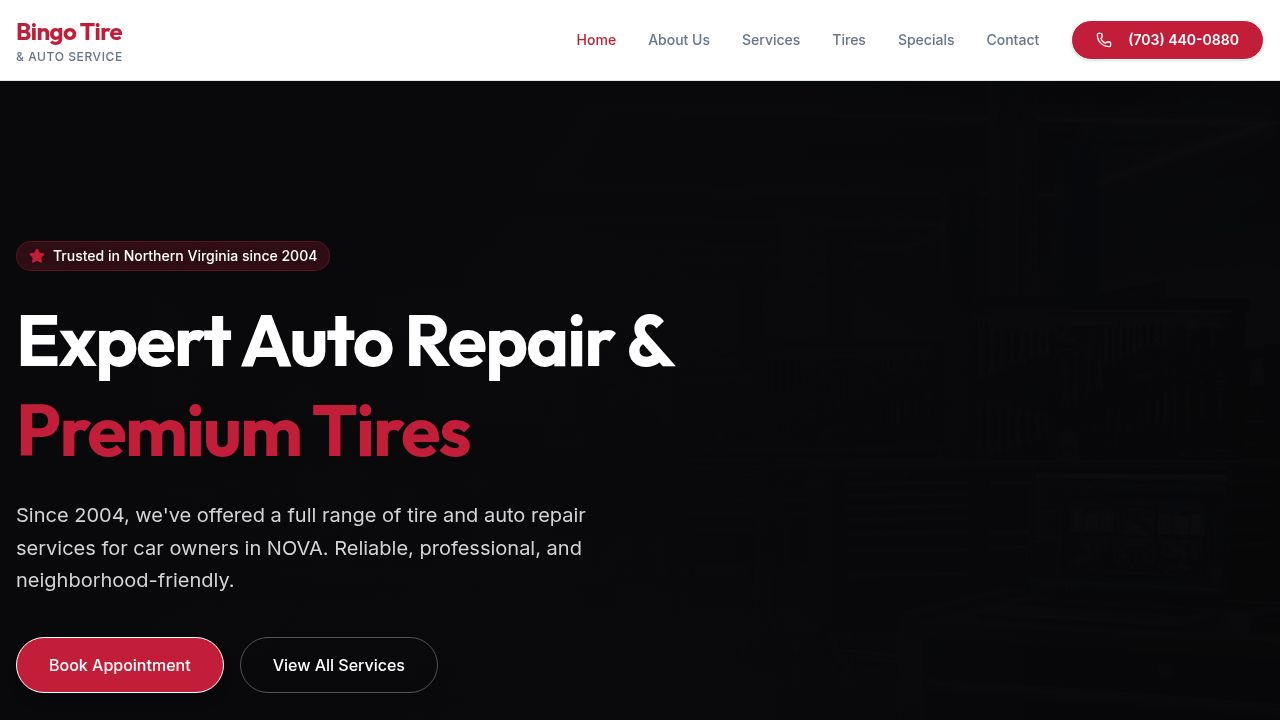
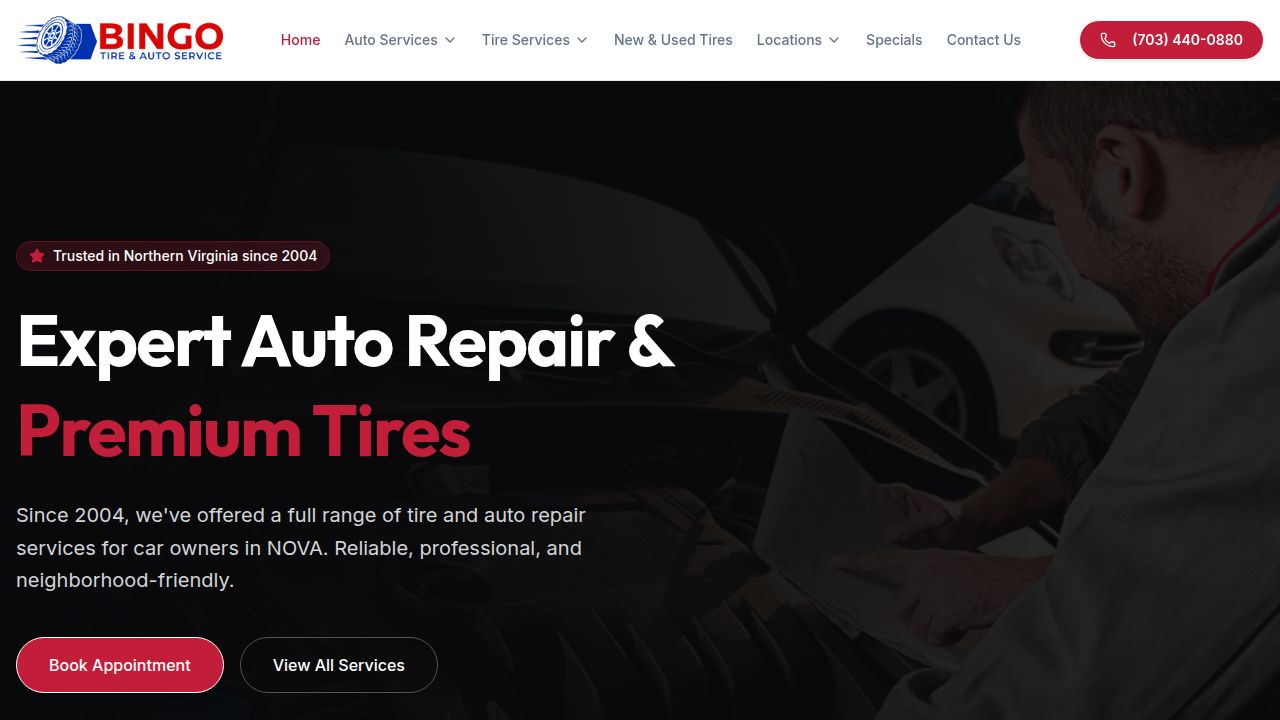
Specify locations where Virginia State Inspection service is available
Add availability logic to services data and conditionally render location information on the Auto Services and Service Detail pages.

Replit-Commit-Author: Agent
Replit-Commit-Session-Id: 10fc0e76-895e-47c9-9f9a-aaf9d7b1b61f
Replit-Commit-Checkpoint-Type: full_checkpoint
Replit-Commit-Event-Id: 206e4e79-4d3b-45c5-a0a7-cb11337b54ee
Replit-Commit-Screenshot-Url: https://storage.googleapis.com/screenshot-production-us-central1/bf9fb77d-d219-4c9f-bdcb-c0dff5242f1b/10fc0e76-895e-47c9-9f9a-aaf9d7b1b61f/UhK0GwO
Replit-Helium-Checkpoint-Created: true

diff --git a/artifacts/bingo-tires/src/pages/service-detail.tsx b/artifacts/bingo-tires/src/pages/service-detail.tsx
@@ -1,7 +1,7 @@
 import { useRoute, Link } from "wouter";
 import { services } from "@/lib/data";
 import { Button } from "@/components/ui/button";
-import { AlertTriangle, Calendar, CheckCircle2, ChevronRight, Phone, ChevronDown, ChevronUp, MapPin } from "lucide-react";
+import { AlertTriangle, Calendar, CheckCircle2, ChevronRight, Phone, ChevronDown, ChevronUp, MapPin, Info } from "lucide-react";
 import NotFound from "@/pages/not-found";
 import { motion } from "framer-motion";
 import { useState } from "react";
@@ -73,9 +73,15 @@ export default function ServiceDetail() {
             <h1 className="text-4xl md:text-5xl lg:text-6xl font-bold font-display tracking-tight mb-6 max-w-2xl">
               {service.name}
             </h1>
-            <p className="text-xl text-zinc-300 max-w-2xl leading-relaxed mb-10">
+            <p className="text-xl text-zinc-300 max-w-2xl leading-relaxed mb-6">
               {service.seoDescription}
             </p>
+            {service.availableAt && (
+              <div className="inline-flex items-center gap-2.5 bg-amber-500/15 border border-amber-400/30 text-amber-300 rounded-full px-5 py-2.5 text-sm font-medium mb-8">
+                <Info className="w-4 h-4 shrink-0" />
+                Available at: {service.availableAt.join(" & ")} locations only
+              </div>
+            )}
             <div className="flex flex-col sm:flex-row gap-4">
               <Button asChild size="lg" className="rounded-full h-14 px-8 text-base font-semibold" data-testid="button-book-service">
                 <Link href={`/contact?service=${service.slug}`}>
@@ -196,16 +202,32 @@ export default function ServiceDetail() {
 
               {/* Locations */}
               <div className="bg-white dark:bg-zinc-900 rounded-2xl border shadow-sm p-6">
-                <h3 className="font-bold font-display mb-4 flex items-center gap-2">
+                <h3 className="font-bold font-display mb-1 flex items-center gap-2">
                   <MapPin className="w-4 h-4 text-primary" />
-                  Available At All Locations
+                  {service.availableAt ? "Available Locations" : "Available At All Locations"}
                 </h3>
-                <ul className="space-y-2 text-sm text-muted-foreground">
-                  <li>Springfield · (703) 440-0880</li>
-                  <li>Woodbridge · (703) 494-8888</li>
-                  <li>Alexandria · (703) 548-0333</li>
-                  <li>Centreville · (703) 543-6900</li>
-                  <li>Winchester · (540) 667-7777</li>
+                {service.availableAt && (
+                  <p className="text-xs text-amber-600 dark:text-amber-400 mb-3 font-medium">
+                    This service is only offered at select locations.
+                  </p>
+                )}
+                {!service.availableAt && <div className="mb-3" />}
+                <ul className="space-y-2 text-sm">
+                  {[
+                    { name: "Springfield", phone: "(703) 440-0880" },
+                    { name: "Woodbridge", phone: "(703) 494-8888" },
+                    { name: "Alexandria", phone: "(703) 548-0333" },
+                    { name: "Centreville", phone: "(703) 543-6900" },
+                    { name: "Winchester", phone: "(540) 667-7777" },
+                  ].map(loc => {
+                    const available = !service.availableAt || service.availableAt.includes(loc.name);
+                    return (
+                      <li key={loc.name} className={`flex items-center justify-between gap-2 ${available ? "text-foreground" : "text-muted-foreground/40 line-through"}`}>
+                        <span>{loc.name}</span>
+                        {available && <span className="text-muted-foreground text-xs">{loc.phone}</span>}
+                      </li>
+                    );
+                  })}
                 </ul>
                 <Button asChild variant="outline" size="sm" className="w-full mt-4 rounded-full">
                   <Link href="/locations">Find a Location</Link>

diff --git a/artifacts/bingo-tires/src/pages/auto-services.tsx b/artifacts/bingo-tires/src/pages/auto-services.tsx
@@ -1,6 +1,6 @@
 import { Link } from "wouter";
 import { services } from "@/lib/data";
-import { ArrowRight } from "lucide-react";
+import { ArrowRight, MapPin } from "lucide-react";
 import { Button } from "@/components/ui/button";
 import { motion } from "framer-motion";
 
@@ -61,6 +61,12 @@ export default function AutoServices() {
                     <div className="flex-1 min-w-0">
                       <h2 className="text-lg font-bold font-display mb-1.5 group-hover:text-primary transition-colors">{service.name}</h2>
                       <p className="text-muted-foreground text-sm leading-relaxed mb-3">{service.shortDescription}</p>
+                      {service.availableAt && (
+                        <div className="flex items-center gap-1.5 text-xs text-amber-600 dark:text-amber-400 font-medium mb-3">
+                          <MapPin className="w-3.5 h-3.5 shrink-0" />
+                          {service.availableAt.join(" & ")} only
+                        </div>
+                      )}
                       <div className="flex items-center text-primary font-medium text-sm">
                         Learn more <ArrowRight className="w-4 h-4 ml-1 group-hover:translate-x-1 transition-transform" />
                       </div>

diff --git a/artifacts/bingo-tires/src/lib/data.ts b/artifacts/bingo-tires/src/lib/data.ts
@@ -17,6 +17,7 @@ export interface Service {
   warnings: string[];
   included: string[];
   faqs: ServiceFAQ[];
+  availableAt?: string[];
 }
 
 export const services: Service[] = [
@@ -297,9 +298,10 @@ export const services: Service[] = [
       },
       {
         question: "Do I need an appointment for a state inspection?",
-        answer: "We accept walk-ins for state inspections at all locations. Bringing your vehicle in early in the day helps ensure faster service, especially during busy periods near registration renewal deadlines."
+        answer: "We accept walk-ins for state inspections at our Centreville and Springfield locations. Bringing your vehicle in early in the day helps ensure faster service, especially during busy periods near registration renewal deadlines."
       }
-    ]
+    ],
+    availableAt: ["Centreville", "Springfield"]
   },
   {
     slug: "steering-suspension",